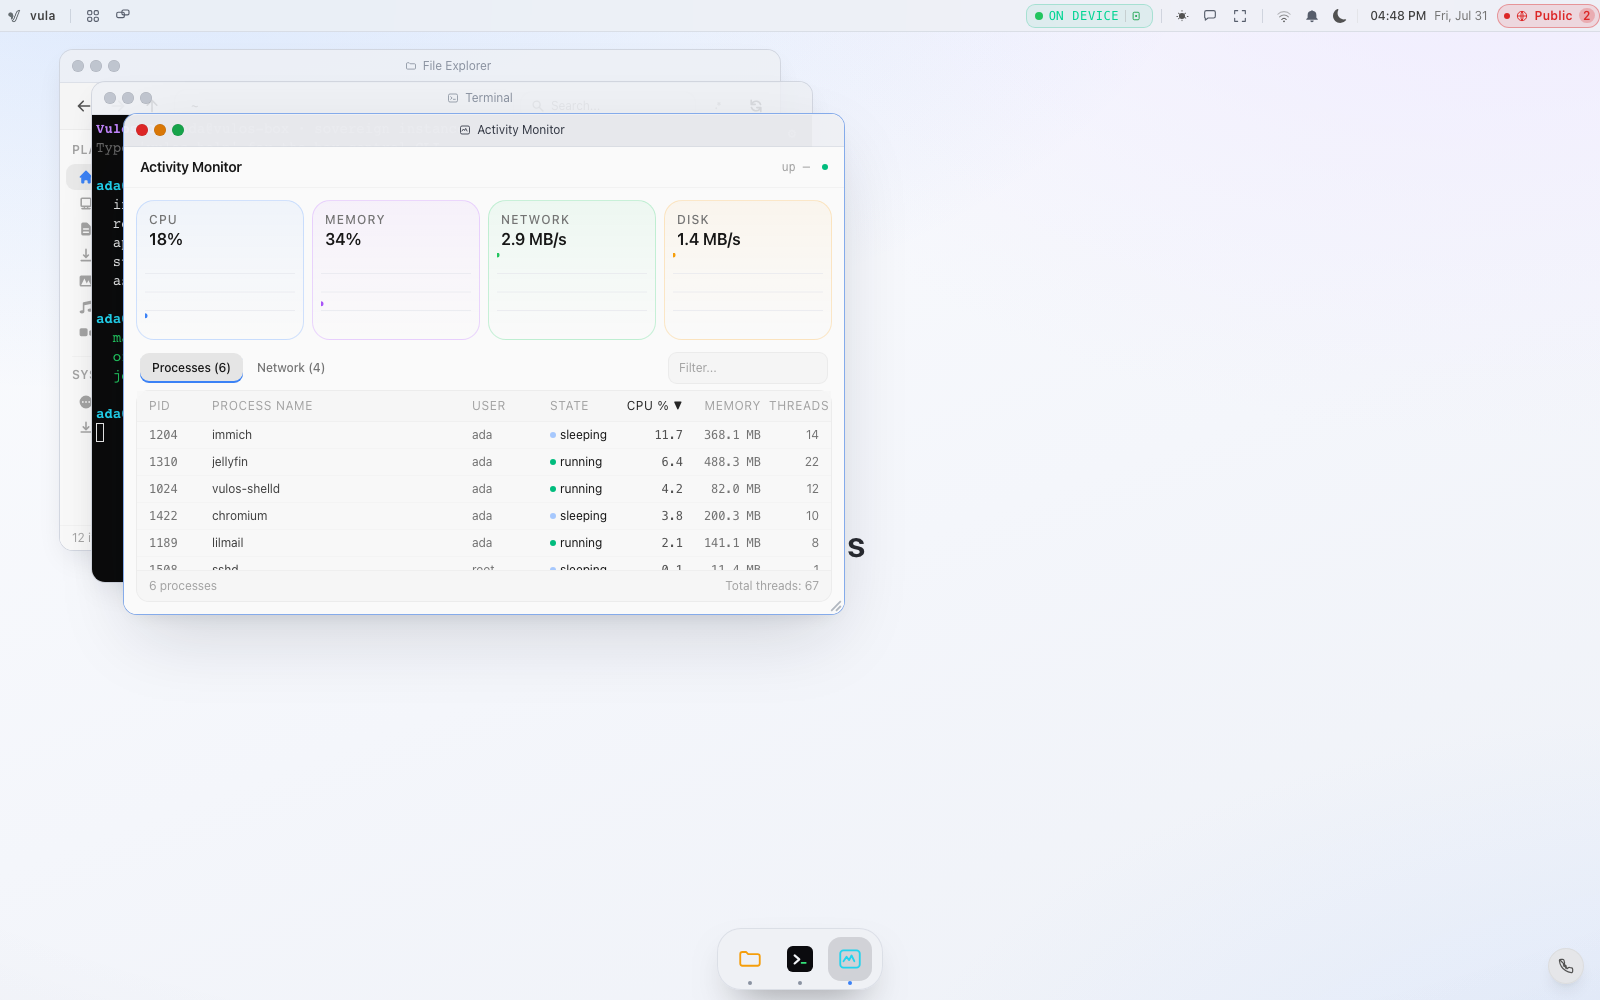
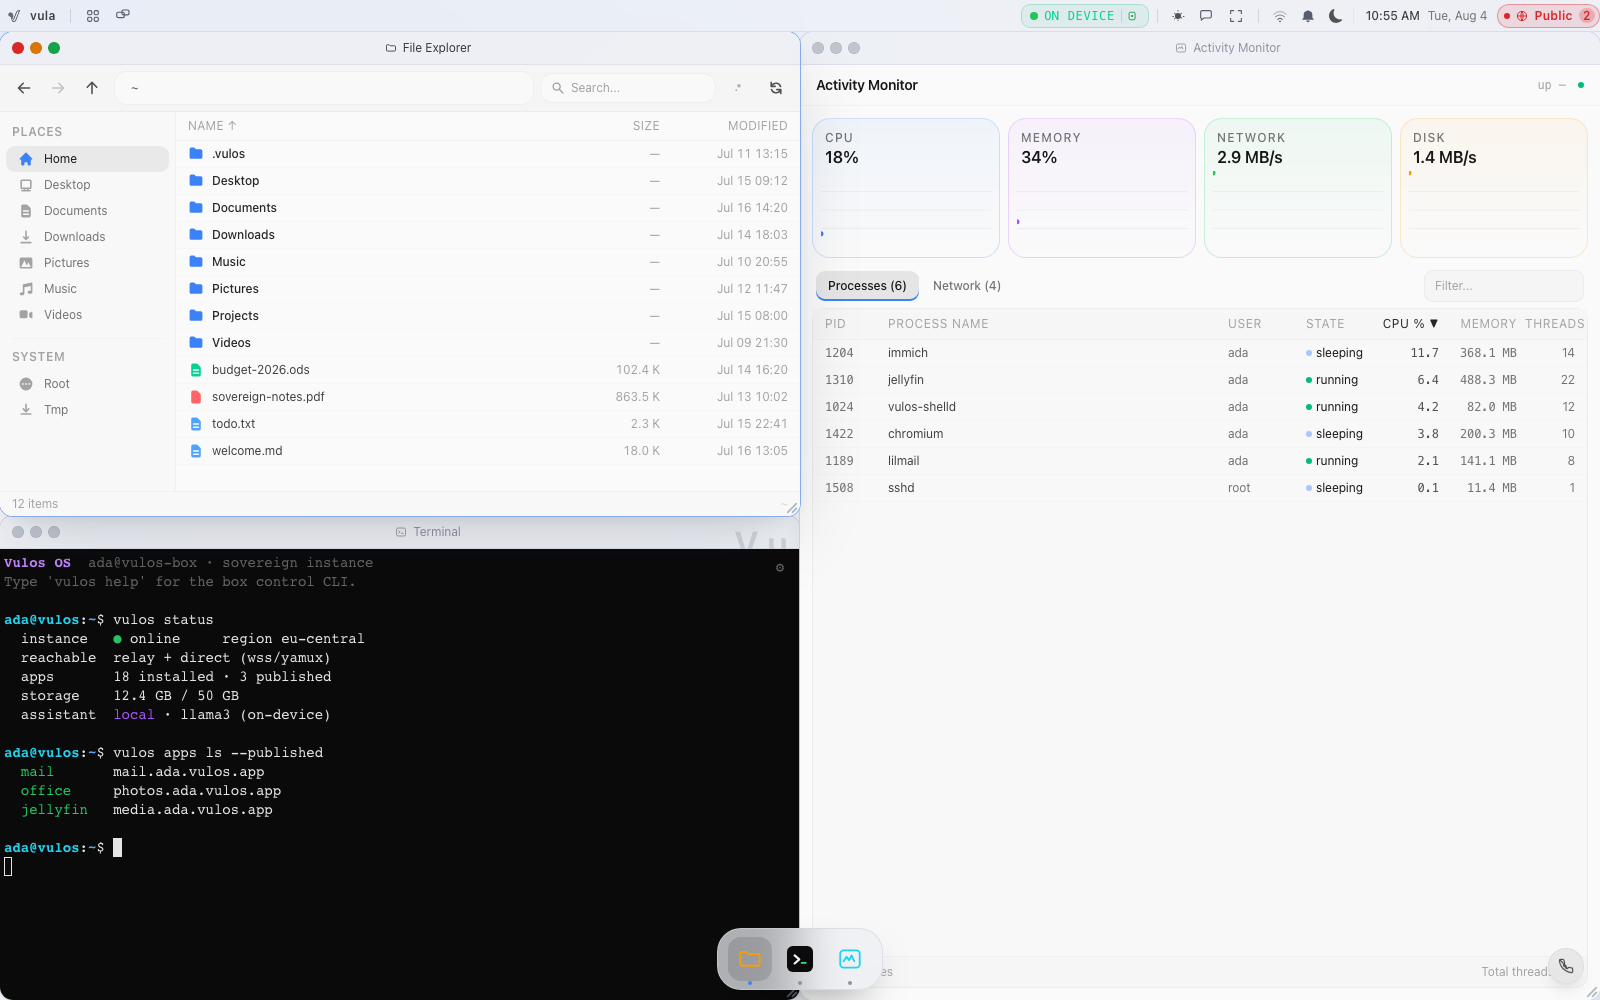
docs: lead with real windowing, and make the tiled shot actually tile
The README hero is now the windowing screenshot — "Real windowing: drag, snap
and tile just like a native desktop" — with the old desktop hero moved into the
"A look inside" grid. Adds phone and tablet windowing shots alongside it, so the
same window management is shown at all three sizes.

The tiled screenshot did not show tiling. It launched three windows and let
ShellProvider's +32px cascade stagger them, on the stated theory that overlap
"reads as a tiled desktop". It did not: the lower two windows were almost
entirely hidden behind the top one, half the canvas was empty, and the one
feature it was captioned for was absent. It now drives the shell's real tiling
path (useWindowShortcuts → nextTile → tileWindow) into two left quarters and a
right half, filling the frame.

Three things had to be fixed to get there, each of which produced a confidently
wrong image first:

- The Terminal ignored the tiling shortcut. xterm.js keeps a hidden <textarea>
  focused, and useWindowShortcuts deliberately drops keys targeting an input so
  it never hijacks typing. Blur after focusing the window.
- Tiling a window then opening another moved the tiled one. Launch every window
  first, tile afterwards.
- Clicking a covered title bar silently tiled the WRONG window: File Explorer,
  once tiled to the top-left quarter, covered the Terminal's cascade position,
  so the Terminal's keystrokes went to File Explorer. Tile in reverse launch
[…]

diff --git a/README.md b/README.md
@@ -16,7 +16,9 @@ Your server. Your AI. Your rules.
 [![Stars](https://img.shields.io/github/stars/vul-os/vulos?style=flat-square&color=F5A623&logo=github)](https://github.com/vul-os/vulos/stargazers)
 [![PRs welcome](https://img.shields.io/badge/PRs-welcome-7C5CFF?style=flat-square)](CONTRIBUTING.md)
 
-<img src="docs/screenshots/hero-light.png" alt="The Vulos desktop — a proactive home with your agenda, assistant, and apps" width="880" />
+<img src="docs/screenshots/tiled-light.png" alt="The Vulos desktop with several windows snapped and tiled side by side, just like a native desktop" width="880" />
+
+<sub><b>Real windowing</b> — drag, snap, and tile just like a native desktop.</sub>
 
 </div>
 
@@ -53,7 +55,7 @@ If you'd rather rent a slice of someone else's computer, Vulos isn't for you. If
   </tr>
   <tr>
     <td width="50%"><img src="docs/screenshots/apphub-light.png" alt="The app hub" width="100%" /><br /><sub><b>App hub</b> — install what you want, remove what you don't.</sub></td>
-    <td width="50%"><img src="docs/screenshots/tiled-light.png" alt="Multiple tiled windows" width="100%" /><br /><sub><b>Real windowing</b> — drag, snap, and tile just like a native desktop.</sub></td>
+    <td width="50%"><img src="docs/screenshots/hero-light.png" alt="The Vulos desktop — a proactive home with your agenda, assistant, and apps" width="100%" /><br /><sub><b>Desktop</b> — a proactive home with your agenda, assistant, and apps.</sub></td>
   </tr>
   <tr>
     <td width="50%"><img src="docs/screenshots/files-light.png" alt="The Files app" width="100%" /><br /><sub><b>Files</b> — your storage, with real permissions and sealed sharing.</sub></td>
@@ -62,6 +64,10 @@ If you'd rather rent a slice of someone else's computer, Vulos isn't for you. If
   <tr>
     <td width="50%"><img src="docs/screenshots/contacts-light.png" alt="A selected contact card" width="100%" /><br /><sub><b>Contacts</b> — people and details that stay on your box, not a vendor's.</sub></td>
     <td width="50%"><img src="docs/screenshots/settings-light.png" alt="System settings" width="100%" /><br /><sub><b>Settings</b> — appearance, accounts, and system controls in one place.</sub></td>
+  </tr>
+  <tr>
+    <td width="50%"><img src="docs/screenshots/mobile-windows-light.png" alt="Running apps shown as cards in the mobile app switcher" width="100%" /><br /><sub><b>Mobile</b> — running apps as swipeable cards in the phone app switcher.</sub></td>
+    <td width="50%"><img src="docs/screenshots/tablet-windows-light.png" alt="Multiple windows snapped and tiled on a tablet-sized screen" width="100%" /><br /><sub><b>Tablet</b> — the same real windowing and tiling, sized for a tablet.</sub></td>
   </tr>
 </table>
 
